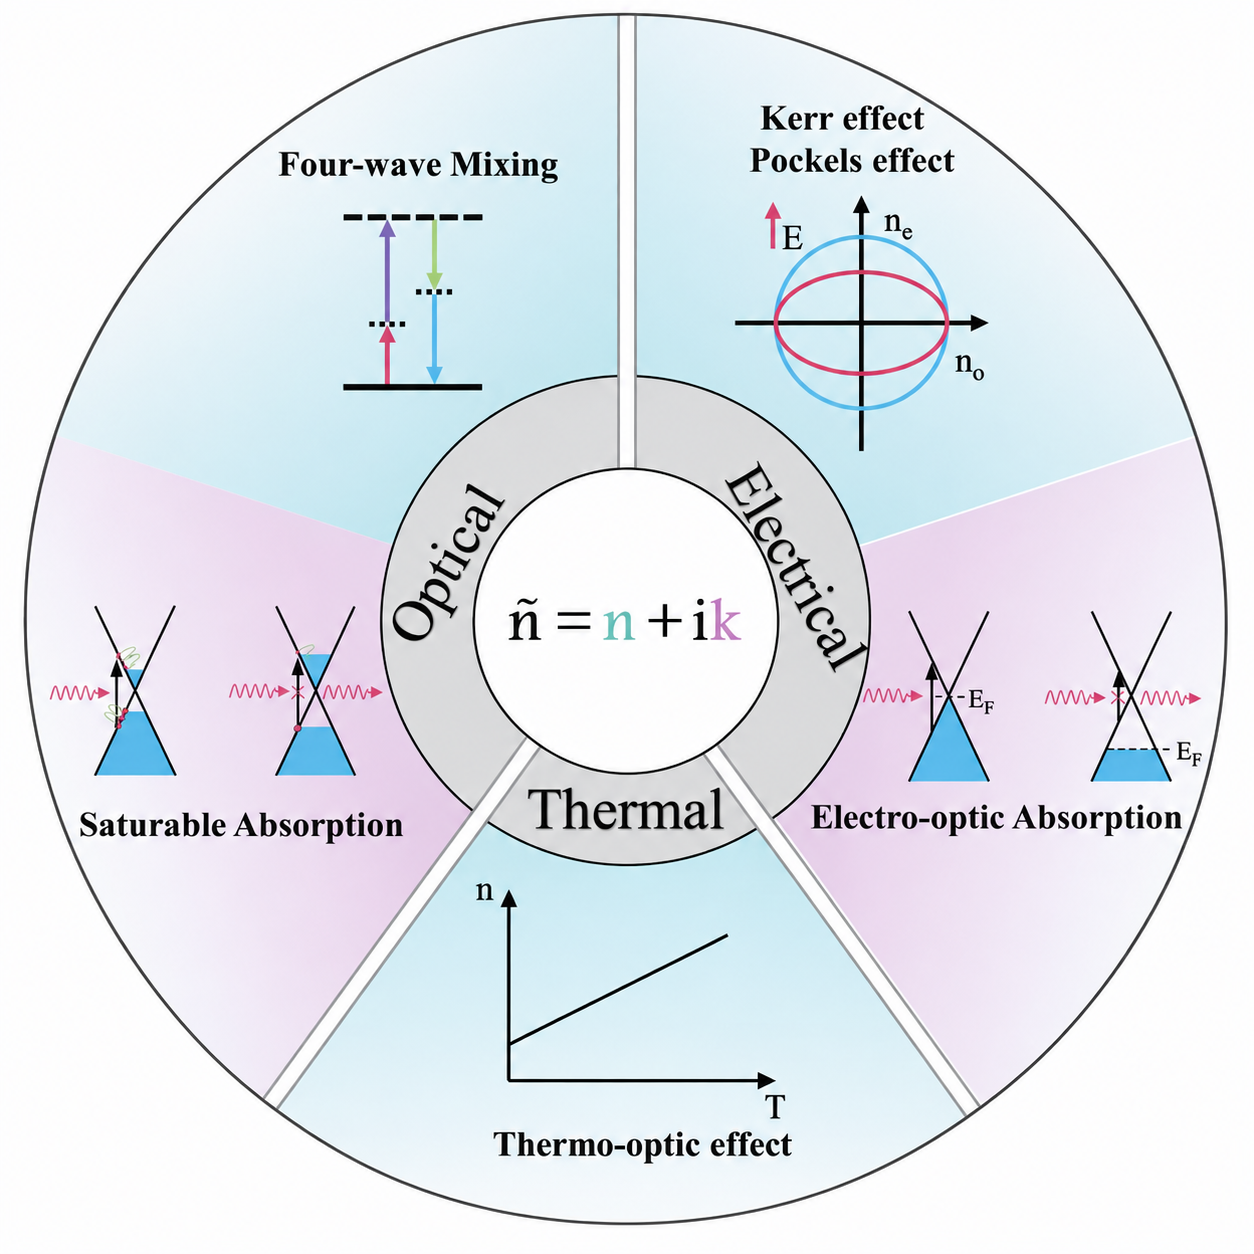
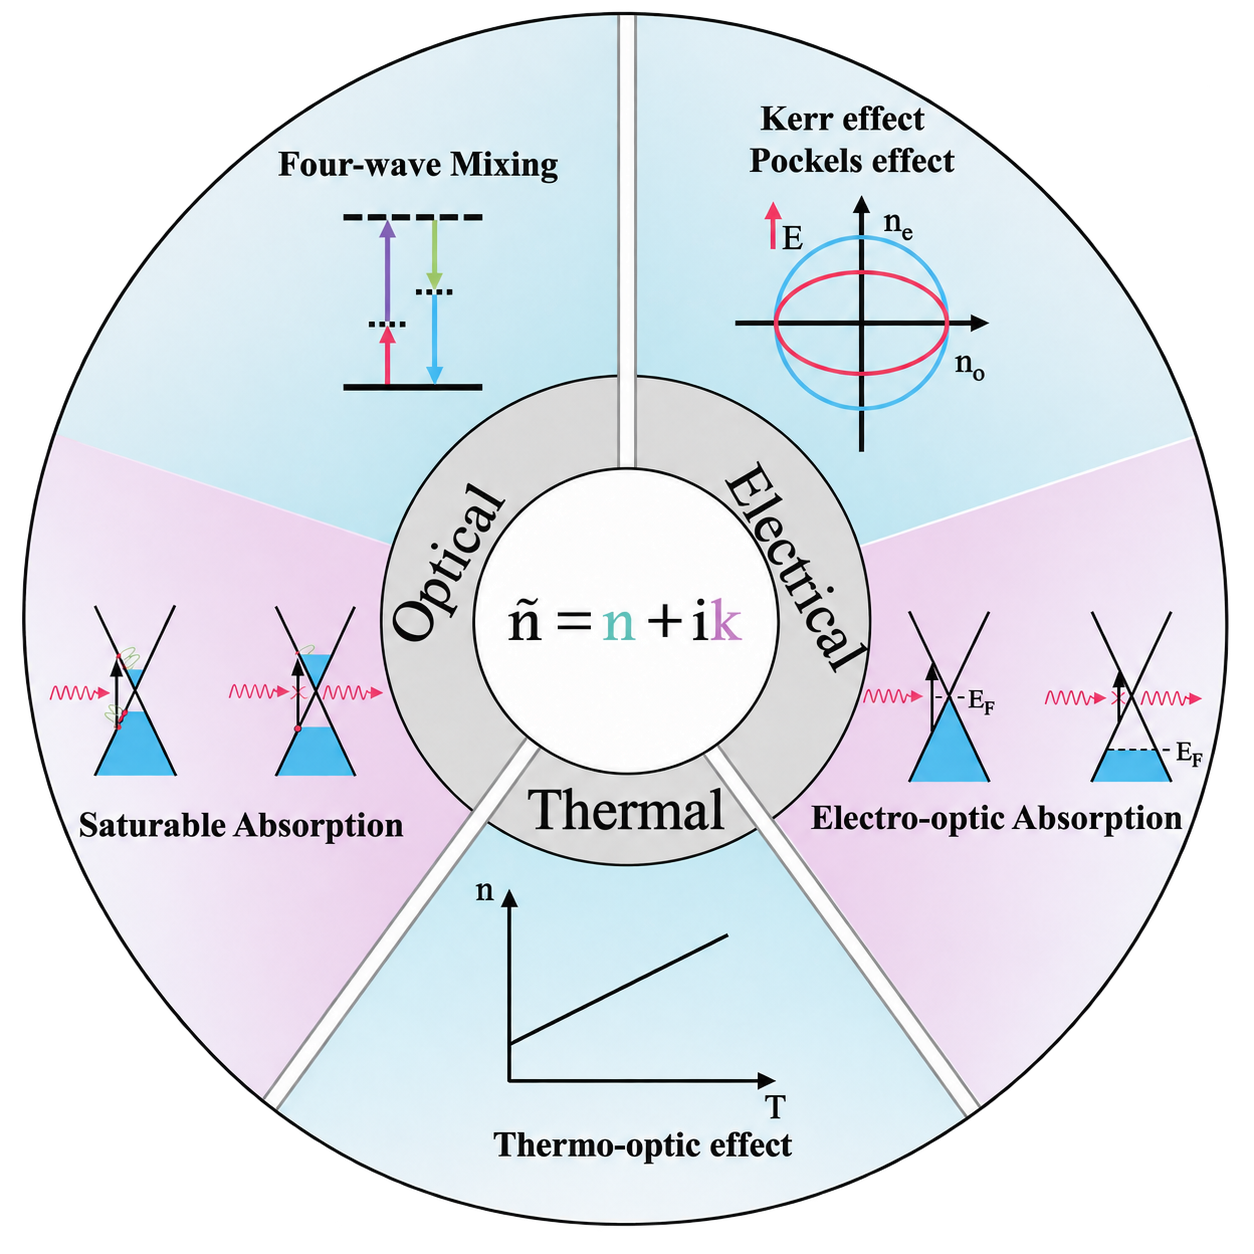
Fit the transparent review illustration into the 16:9 thumbnail

diff --git a/assets/_sass/_site-palette.scss b/assets/_sass/_site-palette.scss
@@ -317,8 +317,7 @@ html[data-theme="dark"] {
   object-fit: fill;
 }
 
-.site-paper-thumbnail-square img {
-  aspect-ratio: 1 / 1;
+.site-paper-thumbnail-contain img {
   object-fit: contain;
 }
 
